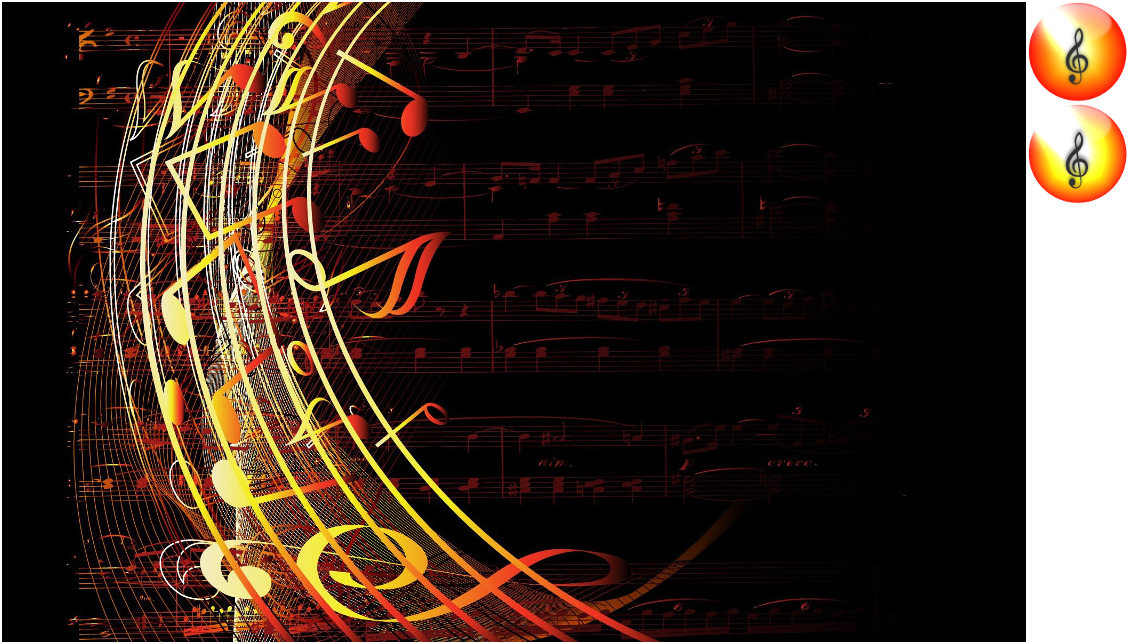
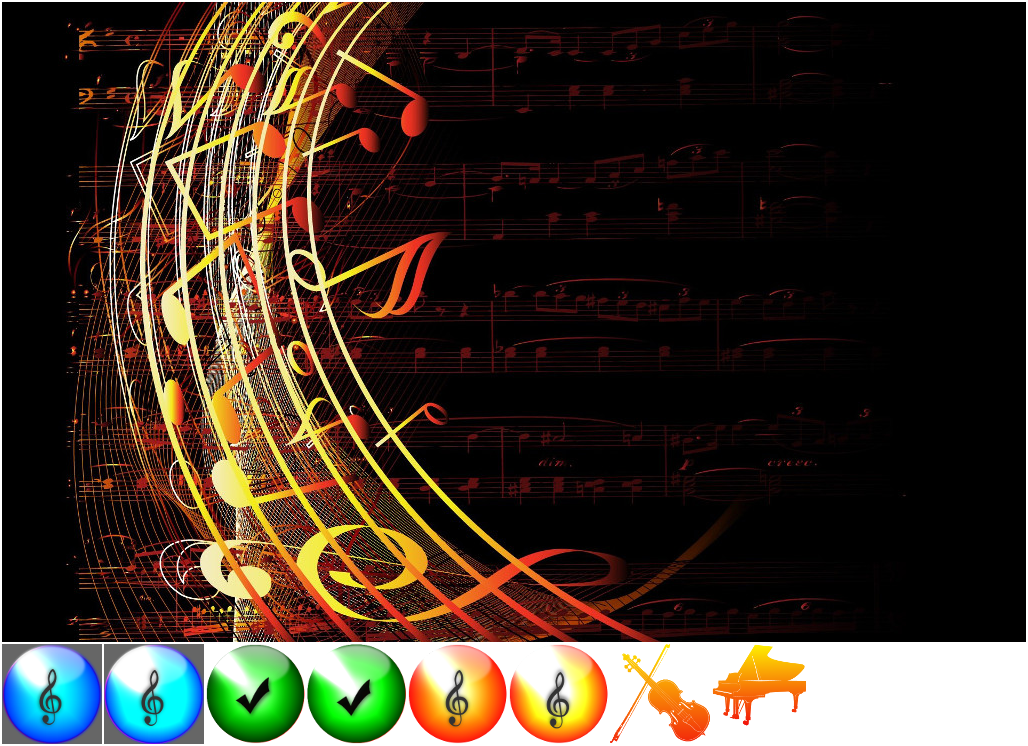
ambitious

diff --git a/js/main.js b/js/main.js
@@ -26,7 +26,12 @@ window.onload = function() {
 	
 		//background
 		game.add.sprite( 0, 0, 'tutorial', 'musicback.jpg');
-		var playbutton = game.add.button(game.world.centerX, game.world.centerY , 'tutorial', test, this, 'playbutton2.png', 'playbutton2.png', 'playpressed.png', 'playbutton2.png');
+		var replayButton = game.add.button(18, 20 , 'tutorial', test, this, 'playbutton2.png', 'playbutton2.png', 'playpressed.png', 'playbutton2.png');
+		var playButton = game.add.button(890, 20 , 'tutorial', test, this, 'playbutton1.png', 'playbutton1.png', 'playpressed1.png', 'playbutton1.png');
+		var checkButton = game.add.button(game.world.centerX, 620 , 'tutorial', test, this, 'check.png', 'check.png', 'checkpressed.png', 'check.png');
+		var pianoButton = game.add.button(890, 180 , 'tutorial', test, this, 'piano.png', 'piano.png', 'piano.png', 'piano.png');
+		var violinButton = game.add.button(890, 300 , 'tutorial', test, this, 'violin.png', 'violin.png', 'violin.png', 'violin.png');
+		
 		
 
         // Add some text using a CSS style.
